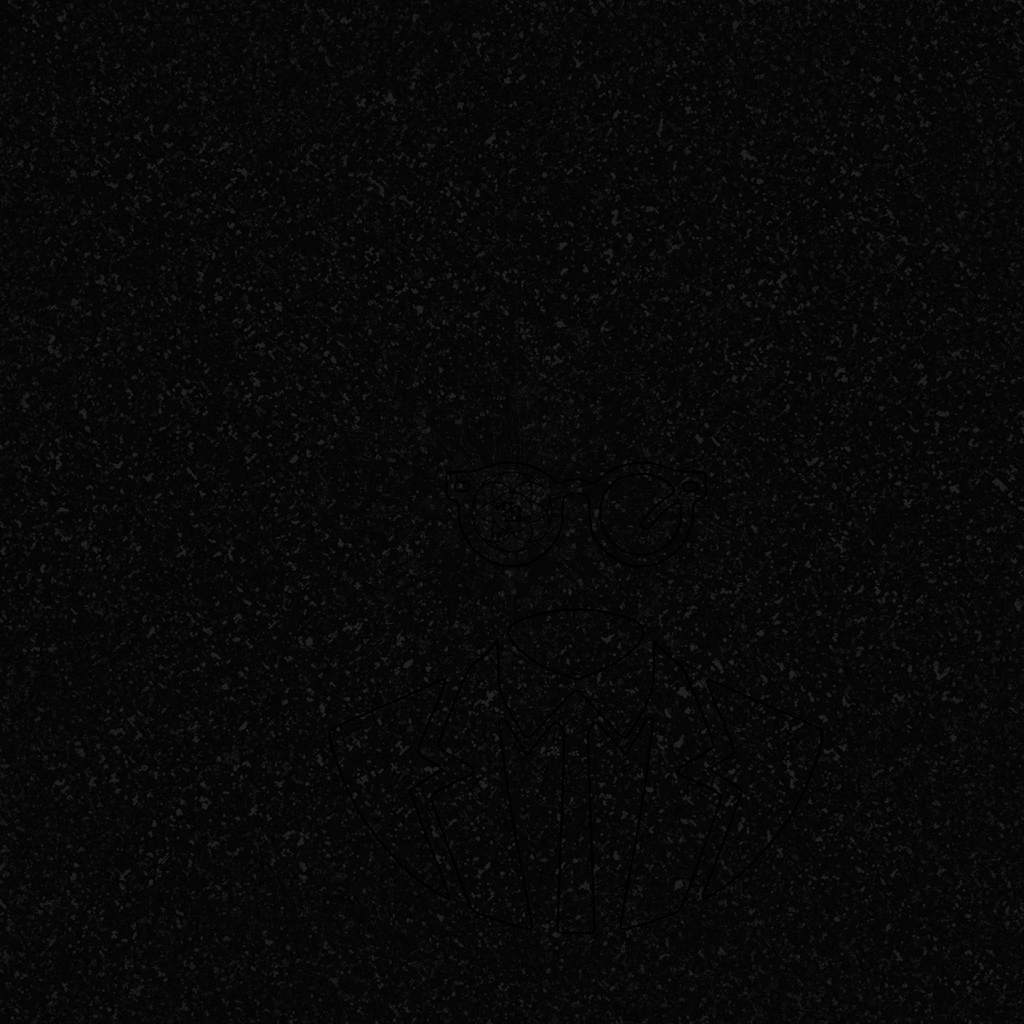
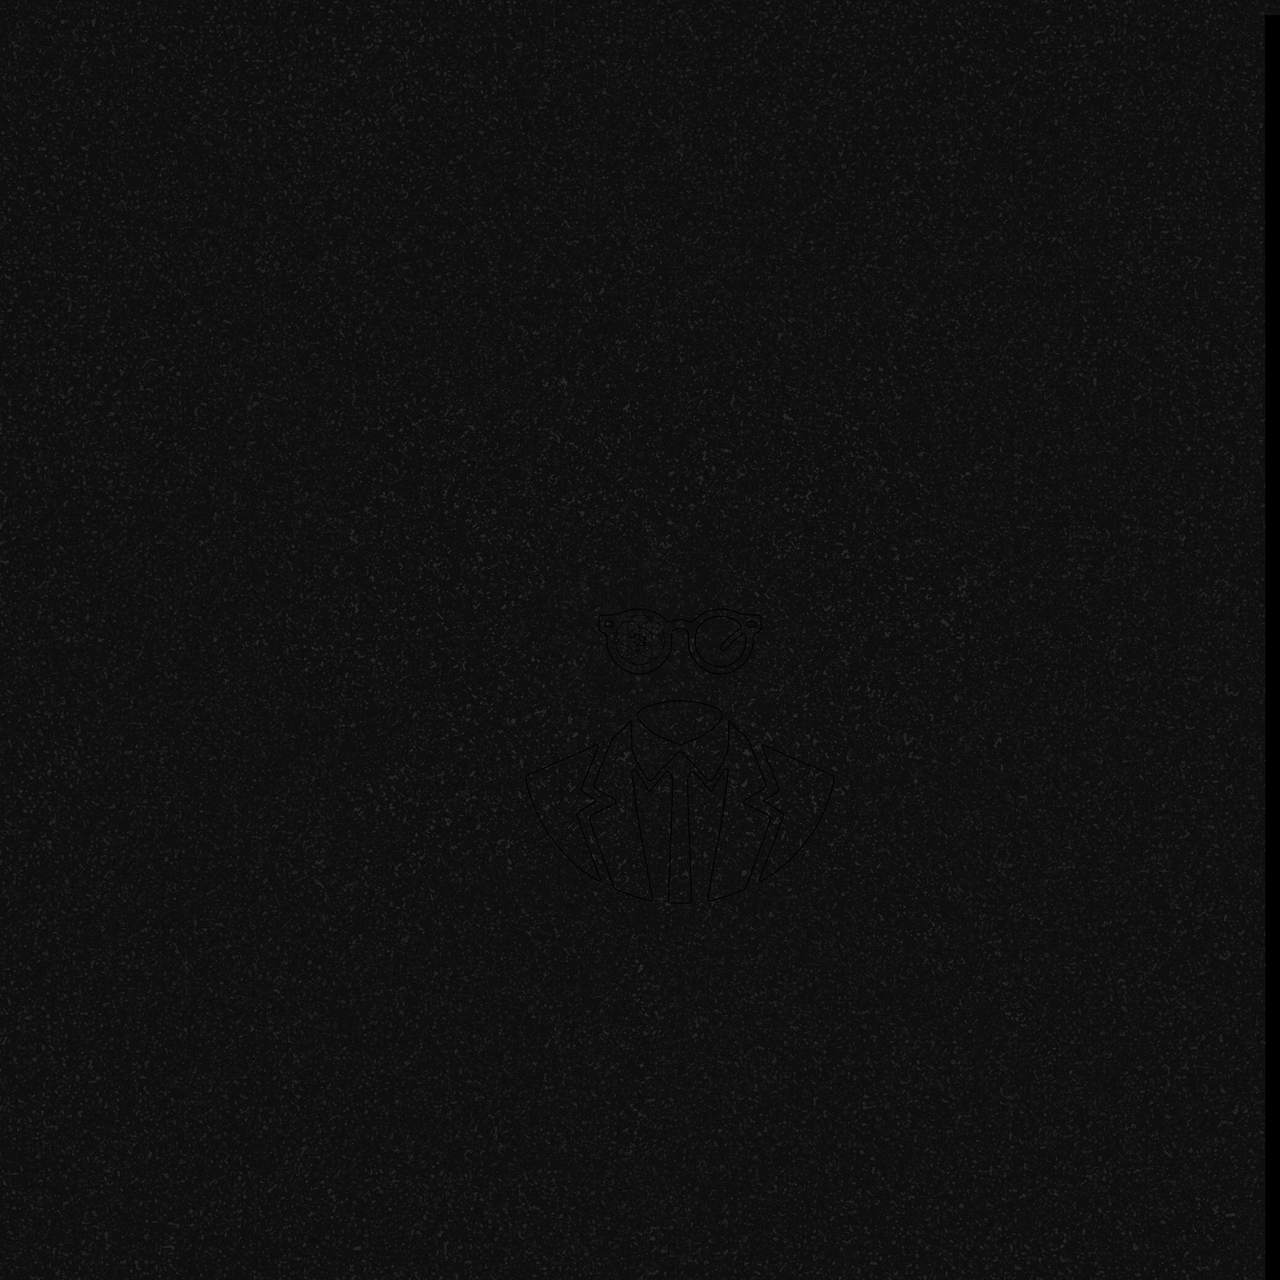
Page background: the entire 1M² map, lighter vignette

diff --git a/index.html b/index.html
@@ -38,9 +38,9 @@
   .bar .logo { width:22px; height:22px; display:block; image-rendering:pixelated }
   /* the map drifts very slowly behind the page; the vignette on top of it stays put */
   body::before { content:""; position:fixed; inset:-6%; z-index:0; pointer-events:none; background:#000 url(map.jpg) center / cover no-repeat; animation:drift 140s ease-in-out infinite alternate; will-change:transform }
-  body::after { content:""; position:fixed; inset:0; z-index:0; pointer-events:none; background:radial-gradient(circle at 50% 44%, rgba(0,0,0,0) 0, rgba(0,0,0,.15) 20vmax, rgba(0,0,0,.7) 34vmax, #000 48vmax) }
+  body::after { content:""; position:fixed; inset:0; z-index:0; pointer-events:none; background:radial-gradient(circle at 50% 44%, rgba(0,0,0,0) 0, rgba(0,0,0,.1) 30vmax, rgba(0,0,0,.6) 46vmax, #000 62vmax) }
   @keyframes drift { from { transform:translate(-2%, -1.5%) scale(1.02) } to { transform:translate(2%, 1.5%) scale(1.06) } }
-  @media (max-width:700px){ body::before { background-image:url(map-small.jpg) } body::after { background:radial-gradient(circle at 50% 40%, rgba(0,0,0,0) 0, rgba(0,0,0,.3) 26vmax, #000 50vmax) } }
+  @media (max-width:700px){ body::before { background-image:url(map-small.jpg) } body::after { background:radial-gradient(circle at 50% 40%, rgba(0,0,0,0) 0, rgba(0,0,0,.2) 34vmax, #000 60vmax) } }
   @media (prefers-reduced-motion: reduce){ body::before { animation:none } }
   body.mapmode main, body.mapmode::before, body.mapmode::after { display:none }
   #fullmap { position:fixed; inset:0; z-index:4; background:#000 }
